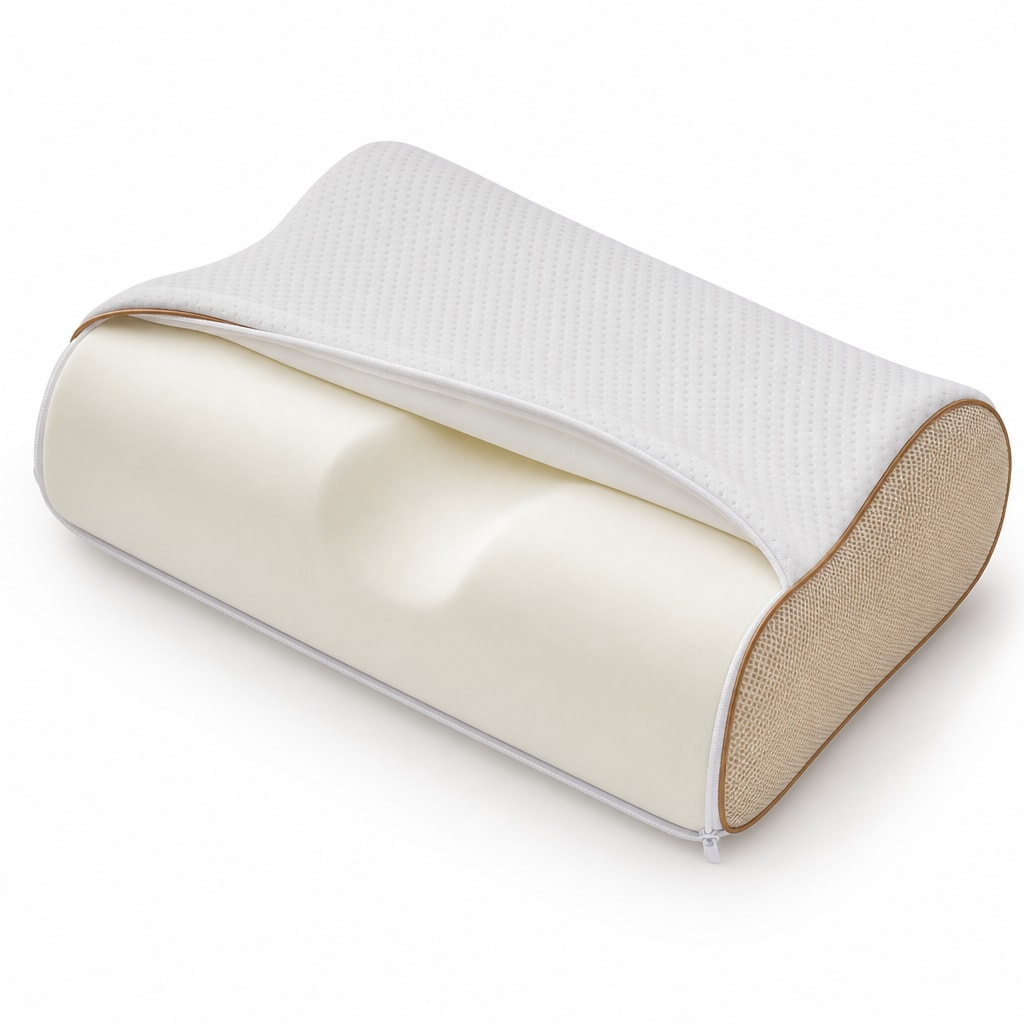
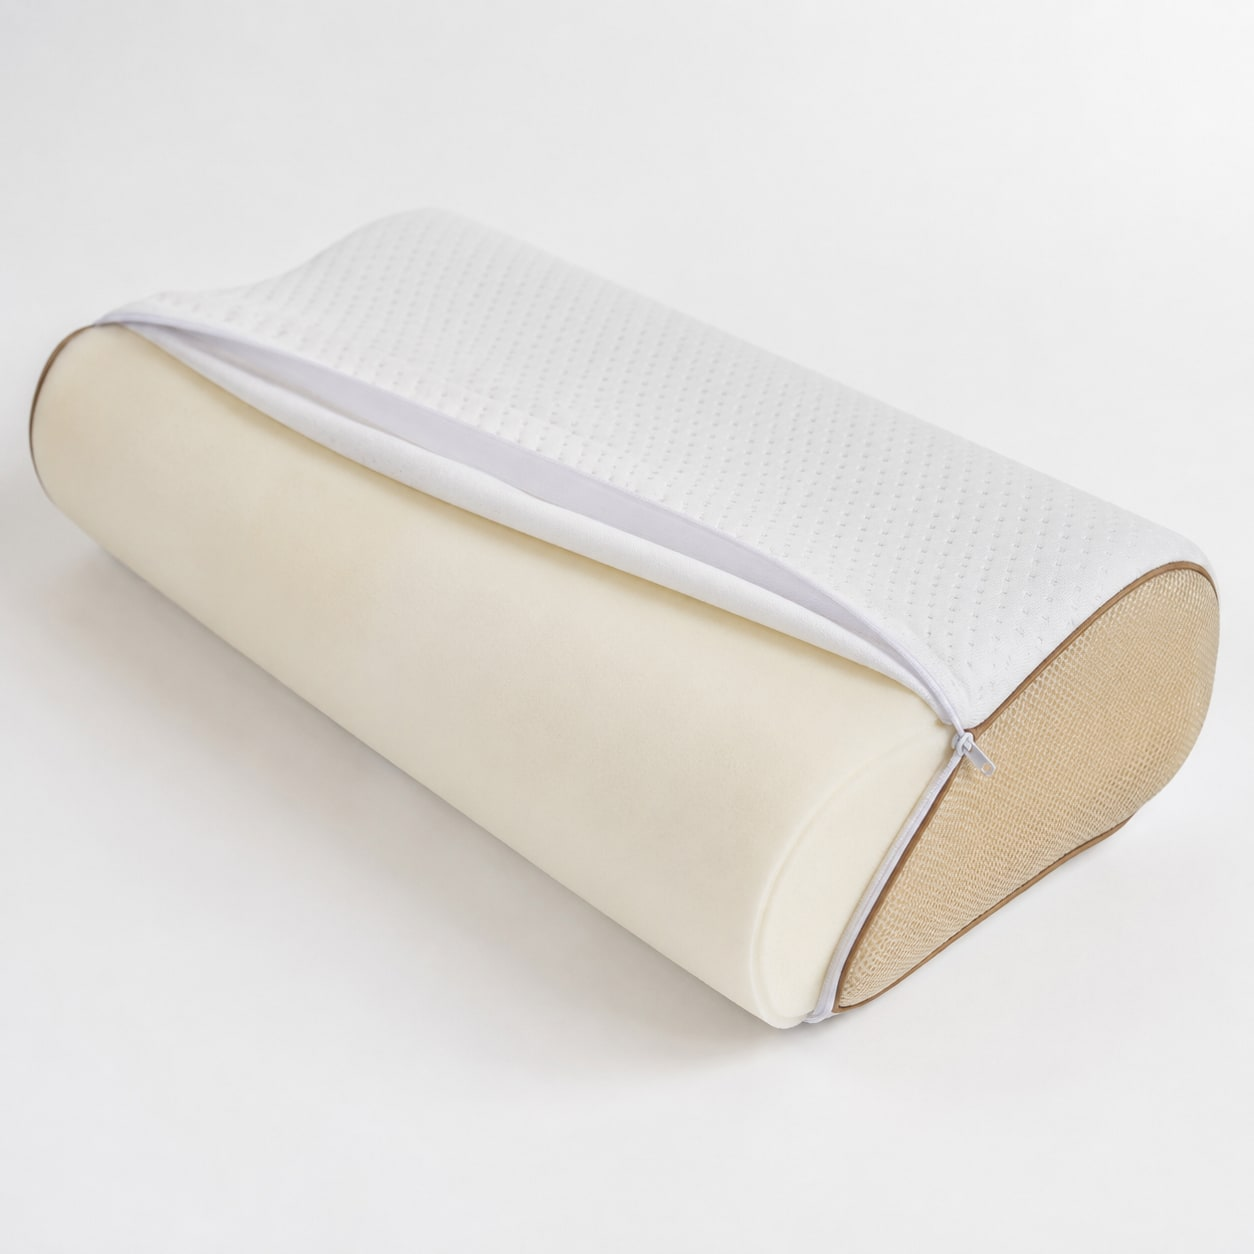
23699 BambooAdapt Memory: popravek oblike na slotih 1,2,4,6 (Marjan krog 1)

Changed region(s): [[0.0, 0.0, 1.0, 0.875]]

diff --git a/vzglavnik-bambooadapt-memory.html b/vzglavnik-bambooadapt-memory.html
@@ -21,6 +21,6 @@
   @media (prefers-color-scheme: dark) { :root { --bg:#191713; --ink:#ece7df; --muted:#97907f; } figure { background:#221f1a; box-shadow:0 1px 3px rgba(0,0,0,.4);} }
 </style></head>
 <body><header><div class="eyebrow">Vitapur · Vzglavniki</div><h1>BambooAdapt anatomski Memory</h1><p>SKU 23699 · 52×32×11,5 cm · anatomska oblika z dvema grebenoma · jedro iz spominske pene · bela pin-dot prevleka z bambusovimi vlakni + bež 3D mesh na kratkih stranicah</p><a class="back" href="index.html">&larr; Vsi vzglavniki</a></header>
-<div class="grid"><figure><a href="img/vzglavnik-bambooadapt-memory/01_entry.jpg" target="_blank"><img src="img/vzglavnik-bambooadapt-memory/01_entry.jpg" alt="1 · ENTRY — Naslovni hero" loading="lazy"></a><figcaption><span class="num">01<span class="hero-tag">MAIN</span></span><div class="cap">1 · ENTRY — Naslovni hero</div></figcaption></figure><figure><a href="img/vzglavnik-bambooadapt-memory/02_polnilo.jpg" target="_blank"><img src="img/vzglavnik-bambooadapt-memory/02_polnilo.jpg" alt="2 · POLNILO — Prerez — trdno anatomsko jedro iz pene (po PS04)" loading="lazy"></a><figcaption><span class="num">02</span><div class="cap">2 · POLNILO — Prerez — trdno anatomsko jedro iz pene (po PS04)</div></figcaption></figure><figure><a href="img/vzglavnik-bambooadapt-memory/03_zadrga.jpg" target="_blank"><img src="img/vzglavnik-bambooadapt-memory/03_zadrga.jpg" alt="3 · ZADRGA — Zadrga po obodnem šivu ob karamelni paspuli" loading="lazy"></a><figcaption><span class="num">03</span><div class="cap">3 · ZADRGA — Zadrga po obodnem šivu ob karamelni paspuli</div></figcaption></figure><figure><a href="img/vzglavnik-bambooadapt-memory/04_profil.jpg" target="_blank"><img src="img/vzglavnik-bambooadapt-memory/04_profil.jpg" alt="4 · PROFIL — Profil — dva grebena + jamica za glavo" loading="lazy"></a><figcaption><span class="num">04</span><div class="cap">4 · PROFIL — Profil — dva grebena + jamica za glavo</div></figcaption></figure><figure><a href="img/vzglavnik-bambooadapt-memory/05_tehnologija.jpg" target="_blank"><img src="img/vzglavnik-bambooadapt-memory/05_tehnologija.jpg" alt="5 · TEHNOLOGIJA — Pin-dot pletenina + bež 3D mesh (makro)" loading="lazy"></a><figcaption><span class="num">05</span><div class="cap">5 · TEHNOLOGIJA — Pin-dot pletenina + bež 3D mesh (makro)</div></figcaption></figure><figure><a href="img/vzglavnik-bambooadapt-memory/06_ljudje.jpg" target="_blank"><img src="img/vzglavnik-bambooadapt-memory/06_ljudje.jpg" alt="6 · LJUDJE — Življenjski slog" loading="lazy"></a><figcaption><span class="num">06</span><div class="cap">6 · LJUDJE — Življenjski slog</div></figcaption></figure></div>
+<div class="grid"><figure><a href="img/vzglavnik-bambooadapt-memory/01_entry.jpg?v=20260728" target="_blank"><img src="img/vzglavnik-bambooadapt-memory/01_entry.jpg?v=20260728" alt="1 · ENTRY — Naslovni hero" loading="lazy"></a><figcaption><span class="num">01<span class="hero-tag">MAIN</span></span><div class="cap">1 · ENTRY — Naslovni hero</div></figcaption></figure><figure><a href="img/vzglavnik-bambooadapt-memory/02_polnilo.jpg?v=20260728" target="_blank"><img src="img/vzglavnik-bambooadapt-memory/02_polnilo.jpg?v=20260728" alt="2 · POLNILO — Prerez — trdno anatomsko jedro iz pene (po PS04)" loading="lazy"></a><figcaption><span class="num">02</span><div class="cap">2 · POLNILO — Prerez — trdno anatomsko jedro iz pene (po PS04)</div></figcaption></figure><figure><a href="img/vzglavnik-bambooadapt-memory/03_zadrga.jpg" target="_blank"><img src="img/vzglavnik-bambooadapt-memory/03_zadrga.jpg" alt="3 · ZADRGA — Zadrga po obodnem šivu ob karamelni paspuli" loading="lazy"></a><figcaption><span class="num">03</span><div class="cap">3 · ZADRGA — Zadrga po obodnem šivu ob karamelni paspuli</div></figcaption></figure><figure><a href="img/vzglavnik-bambooadapt-memory/04_profil.jpg?v=20260728" target="_blank"><img src="img/vzglavnik-bambooadapt-memory/04_profil.jpg?v=20260728" alt="4 · PROFIL — Profil — dva grebena + jamica za glavo" loading="lazy"></a><figcaption><span class="num">04</span><div class="cap">4 · PROFIL — Profil — dva grebena + jamica za glavo</div></figcaption></figure><figure><a href="img/vzglavnik-bambooadapt-memory/05_tehnologija.jpg" target="_blank"><img src="img/vzglavnik-bambooadapt-memory/05_tehnologija.jpg" alt="5 · TEHNOLOGIJA — Pin-dot pletenina + bež 3D mesh (makro)" loading="lazy"></a><figcaption><span class="num">05</span><div class="cap">5 · TEHNOLOGIJA — Pin-dot pletenina + bež 3D mesh (makro)</div></figcaption></figure><figure><a href="img/vzglavnik-bambooadapt-memory/06_ljudje.jpg?v=20260728" target="_blank"><img src="img/vzglavnik-bambooadapt-memory/06_ljudje.jpg?v=20260728" alt="6 · LJUDJE — Življenjski slog" loading="lazy"></a><figcaption><span class="num">06</span><div class="cap">6 · LJUDJE — Življenjski slog</div></figcaption></figure></div>
 <footer>Koncept galerije — julij 2026 · Vitapur · komentar vpiši pod posamezno sliko</footer><script src="comments.js" defer></script>
 </body></html>

diff --git a/index.html b/index.html
@@ -63,7 +63,7 @@
 <div class="card"><a href="vzglavnik-vitacloud-set.html"><img src="img/vzglavnik-vitacloud-set/01_entry.jpg" alt="VitaCloud 2-delni set ergonomskih vzglavnikov" loading="lazy"><div class="meta"><h2>VitaCloud 2-delni set ergonomskih vzglavnikov</h2><p>50×70 cm, višina ok. 20 cm · razrezana spominska pena, nastavljiva višina · 6 slik</p></div></a></div>
 <div class="card"><a href="vzglavnik-memoelite-junior.html"><img src="img/vzglavnik-memoelite-junior/01_entry.jpg" alt="MemoElite Junior" loading="lazy"><div class="meta"><h2>MemoElite Junior</h2><p>40×60 cm · višina 8 / 12 / 16 cm · 6 slik</p></div></a></div>
 <div class="card"><a href="vzglavnik-memoelite-memory.html"><img src="img/vzglavnik-memoelite-memory/01_entry.jpg" alt="MemoElite Memory 3v1" loading="lazy"><div class="meta"><h2>MemoElite Memory 3v1</h2><p>40×60 cm · višina 9,5 / 14 cm · 6 slik</p></div></a></div>
-<div class="card"><a href="vzglavnik-bambooadapt-memory.html"><img src="img/vzglavnik-bambooadapt-memory/01_entry.jpg" alt="BambooAdapt anatomski Memory" loading="lazy"><div class="meta"><h2>BambooAdapt anatomski Memory</h2><p>52×32×11,5 cm · anatomska oblika z dvema grebenoma · 6 slik</p></div></a></div>
+<div class="card"><a href="vzglavnik-bambooadapt-memory.html"><img src="img/vzglavnik-bambooadapt-memory/01_entry.jpg?v=20260728" alt="BambooAdapt anatomski Memory" loading="lazy"><div class="meta"><h2>BambooAdapt anatomski Memory</h2><p>52×32×11,5 cm · anatomska oblika z dvema grebenoma · 6 slik</p></div></a></div>
 <div class="card"><a href="vzglavnik-bambooadapt-otroski.html"><img src="img/vzglavnik-bambooadapt-otroski/01_entry.jpg" alt="BambooAdapt otroški" loading="lazy"><div class="meta"><h2>BambooAdapt otroški</h2><p>40×60 cm · prešita bombažna prevleka + bež 3D mesh letev · 6 slik</p></div></a></div>
 <div class="card"><a href="solea-pajame.html"><img src="img/solea_pajame/orchid_after.jpg" alt="Soléa pižame prej/potem" loading="lazy"><div class="meta"><h2>Soléa pižame — prej / potem</h2><p>Orchid Bloom + Urban Dusk · popravek drže in traku · 6 slik</p></div></a></div>
 <div class="card"><a href="vzmetnica-iflip.html"><img src="img/vzmetnica-iflip/01_entry.jpg?v=20260717r4" alt="Vitapur iFlip vzmetnica" loading="lazy"><div class="meta"><h2>Vzmetnica iFlip — 29 cm</h2><p>Pilot · hibrid, žepkaste vzmeti, obračljiva prevleka · 8 images</p></div></a></div>
